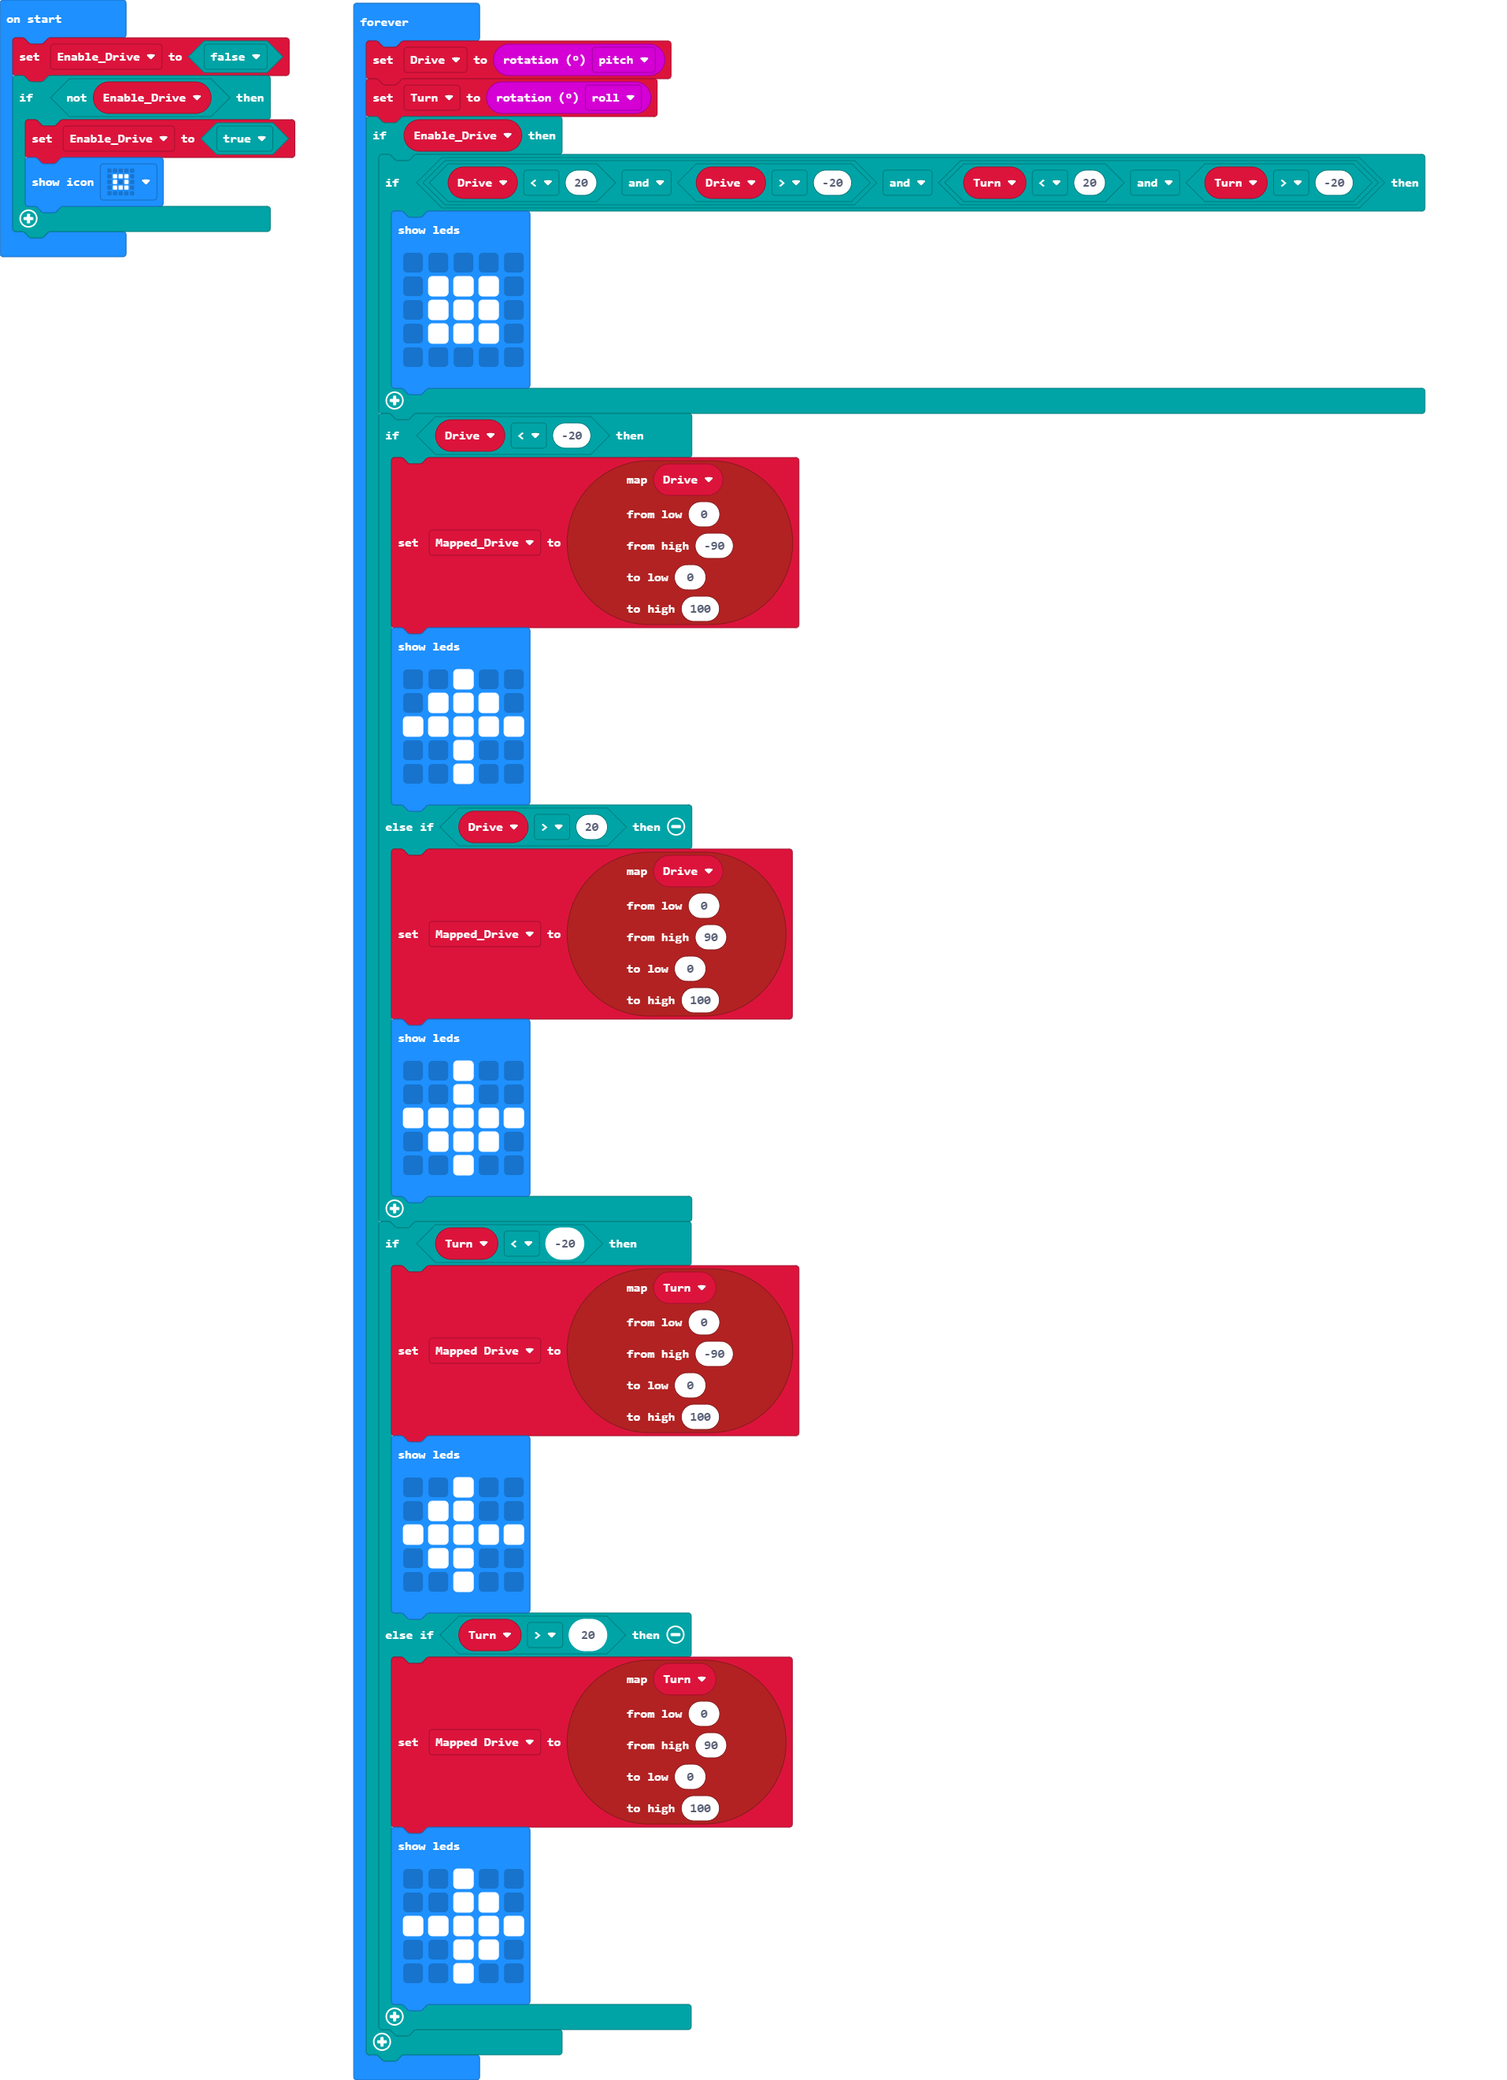
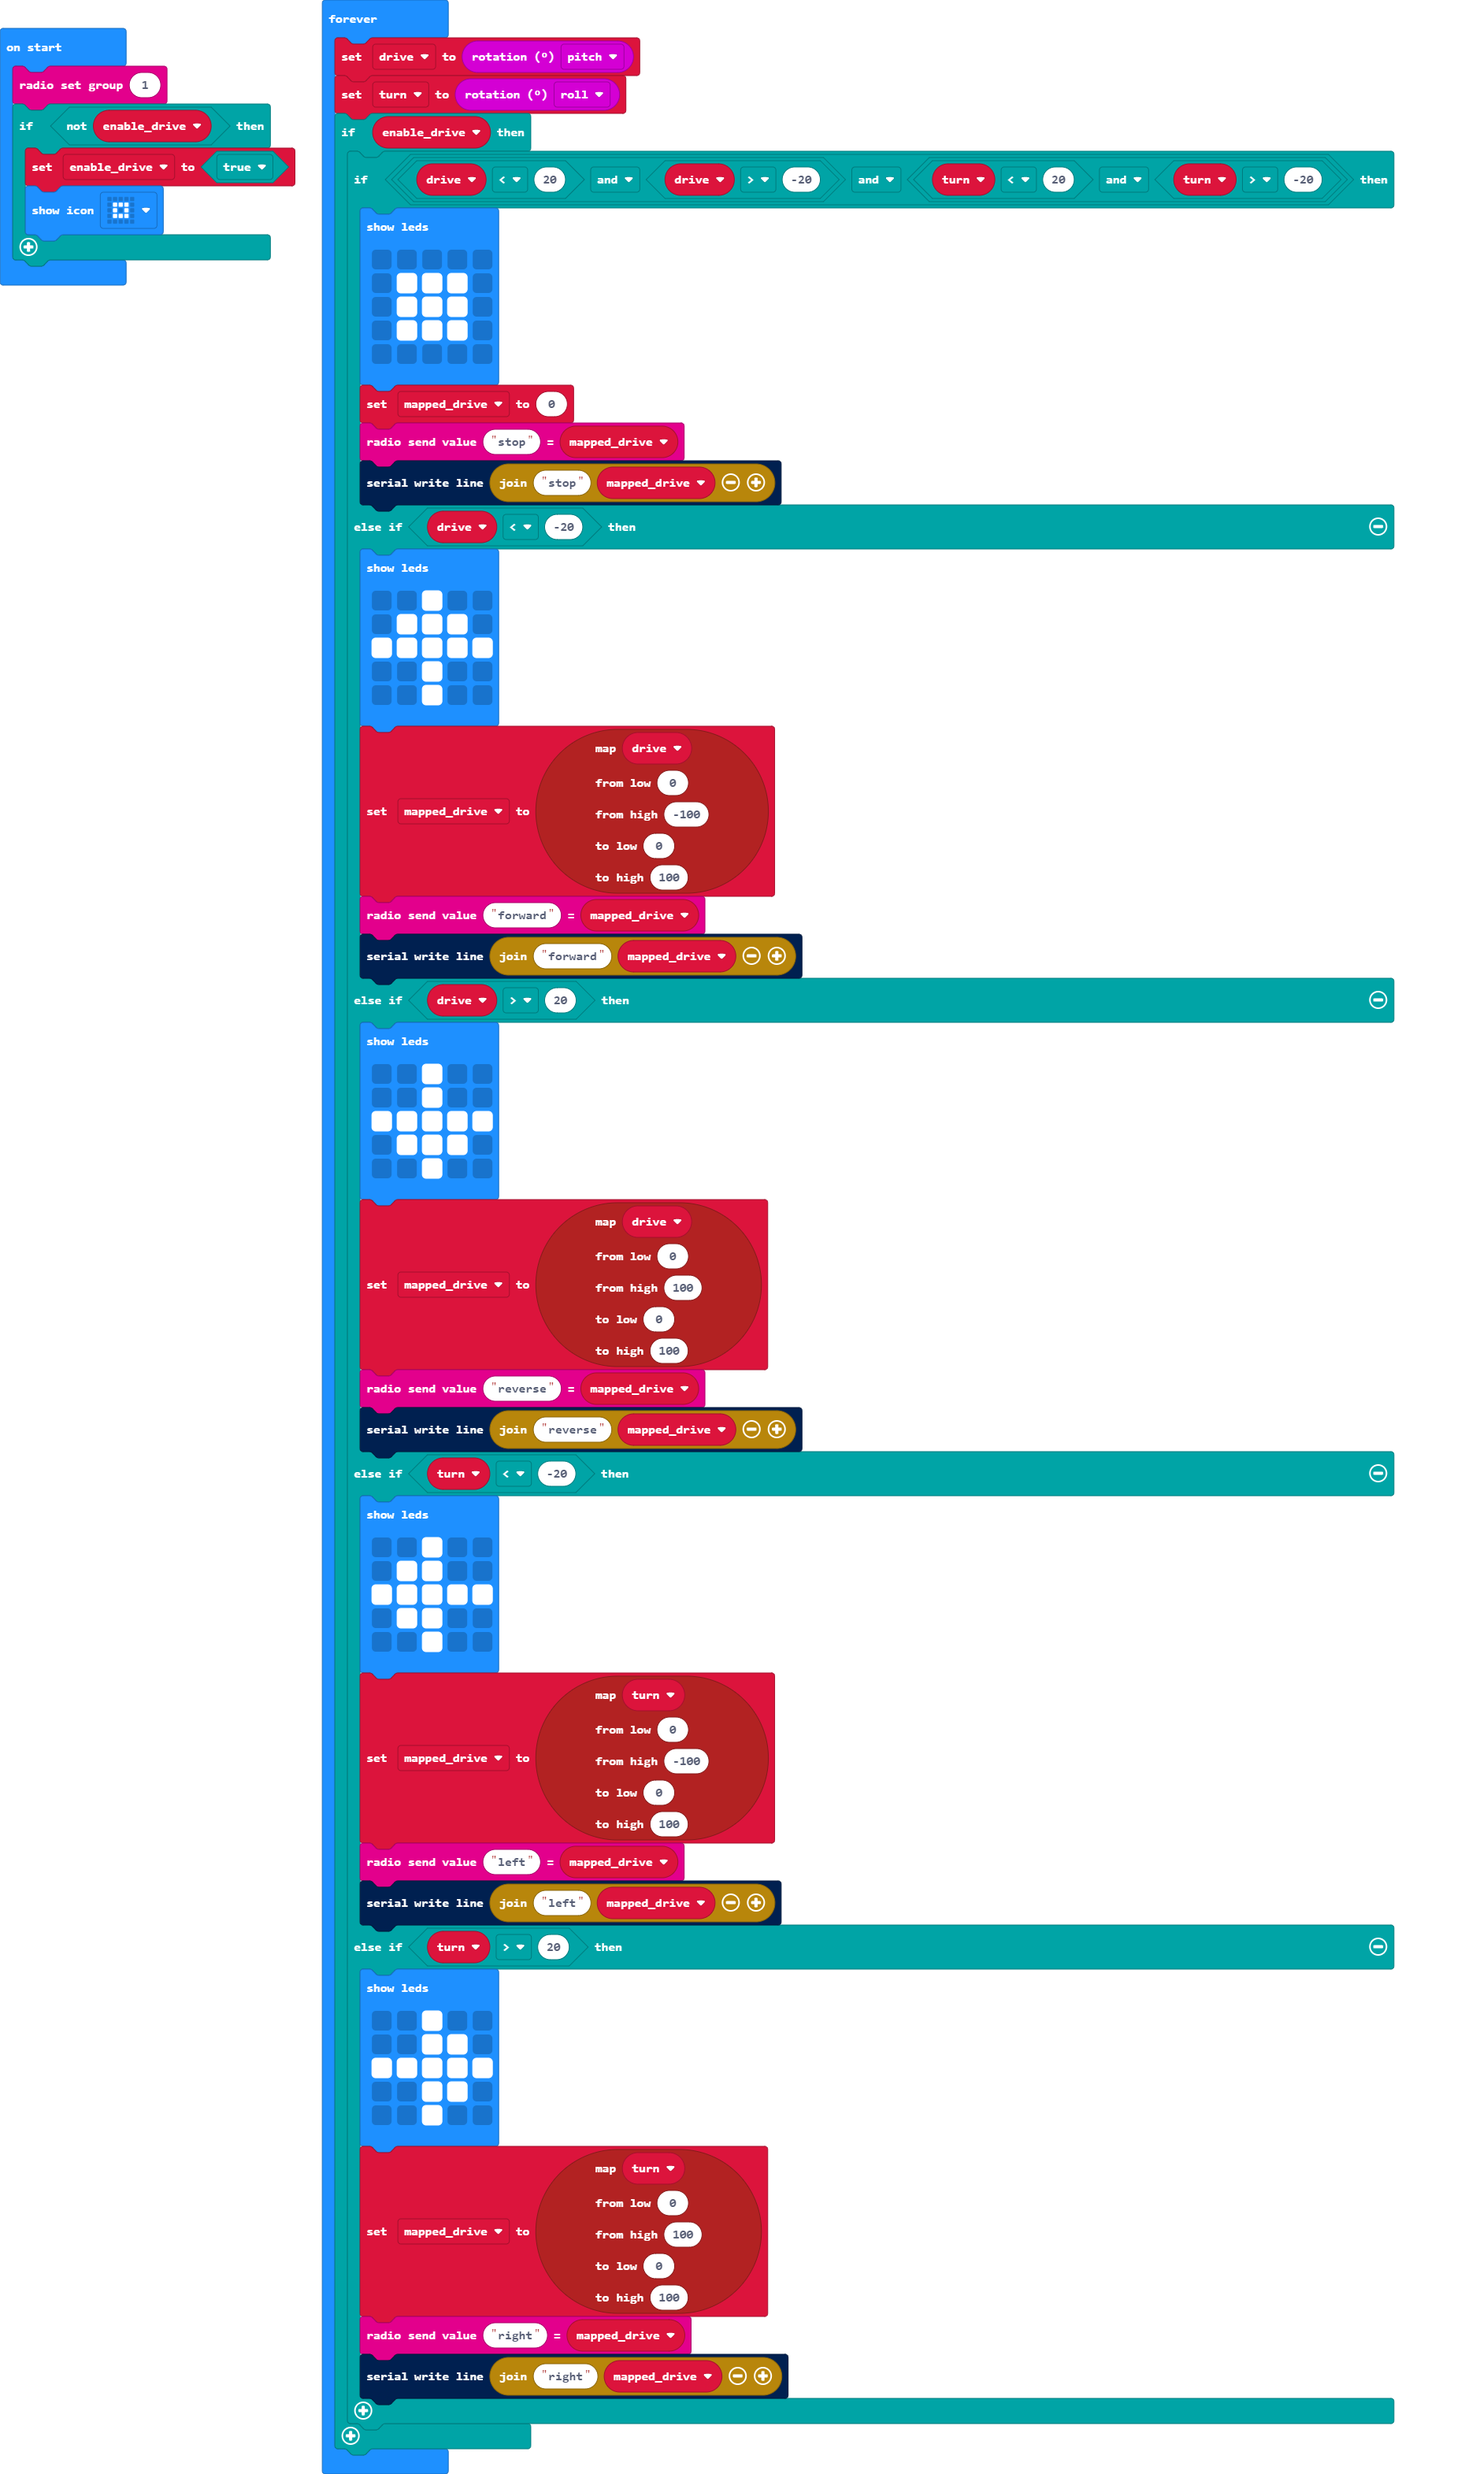
Update pxt.json, main.blocks, main.ts

diff --git a/main.ts b/main.ts
@@ -1,17 +1,17 @@
-let Mapped_Drive2 = 0
-let Mapped_Drive = 0
-let Turn = 0
-let Drive = 0
-let Enable_Drive = false
-if (!(Enable_Drive)) {
-    Enable_Drive = true
+let mapped_drive = 0
+let turn = 0
+let drive = 0
+let enable_drive = false
+radio.setGroup(1)
+if (!(enable_drive)) {
+    enable_drive = true
     basic.showIcon(IconNames.SmallSquare)
 }
 basic.forever(function () {
-    Drive = input.rotation(Rotation.Pitch)
-    Turn = input.rotation(Rotation.Roll)
-    if (Enable_Drive) {
-        if (Drive < 20 && Drive > -20 && (Turn < 20 && Turn > -20)) {
+    drive = input.rotation(Rotation.Pitch)
+    turn = input.rotation(Rotation.Roll)
+    if (enable_drive) {
+        if (drive < 20 && drive > -20 && (turn < 20 && turn > -20)) {
             basic.showLeds(`
                 . . . . .
                 . # # # .
@@ -19,15 +19,10 @@ basic.forever(function () {
                 . # # # .
                 . . . . .
                 `)
-        }
-        if (Drive < -20) {
-            Mapped_Drive = pins.map(
-            Drive,
-            0,
-            -90,
-            0,
-            100
-            )
+            mapped_drive = 0
+            radio.sendValue("stop", mapped_drive)
+            serial.writeLine("stop" + mapped_drive)
+        } else if (drive < -20) {
             basic.showLeds(`
                 . . # . .
                 . # # # .
@@ -35,14 +30,16 @@ basic.forever(function () {
                 . . # . .
                 . . # . .
                 `)
-        } else if (Drive > 20) {
-            Mapped_Drive = pins.map(
-            Drive,
+            mapped_drive = pins.map(
+            drive,
             0,
-            90,
+            -100,
             0,
             100
             )
+            radio.sendValue("forward", mapped_drive)
+            serial.writeLine("forward" + mapped_drive)
+        } else if (drive > 20) {
             basic.showLeds(`
                 . . # . .
                 . . # . .
@@ -50,15 +47,16 @@ basic.forever(function () {
                 . # # # .
                 . . # . .
                 `)
-        }
-        if (Turn < -20) {
-            Mapped_Drive2 = pins.map(
-            Turn,
+            mapped_drive = pins.map(
+            drive,
             0,
-            -90,
+            100,
             0,
             100
             )
+            radio.sendValue("reverse", mapped_drive)
+            serial.writeLine("reverse" + mapped_drive)
+        } else if (turn < -20) {
             basic.showLeds(`
                 . . # . .
                 . # # . .
@@ -66,14 +64,16 @@ basic.forever(function () {
                 . # # . .
                 . . # . .
                 `)
-        } else if (Turn > 20) {
-            Mapped_Drive2 = pins.map(
-            Turn,
+            mapped_drive = pins.map(
+            turn,
             0,
-            90,
+            -100,
             0,
             100
             )
+            radio.sendValue("left", mapped_drive)
+            serial.writeLine("left" + mapped_drive)
+        } else if (turn > 20) {
             basic.showLeds(`
                 . . # . .
                 . . # # .
@@ -81,6 +81,15 @@ basic.forever(function () {
                 . . # # .
                 . . # . .
                 `)
+            mapped_drive = pins.map(
+            turn,
+            0,
+            100,
+            0,
+            100
+            )
+            radio.sendValue("right", mapped_drive)
+            serial.writeLine("right" + mapped_drive)
         }
     }
 })
